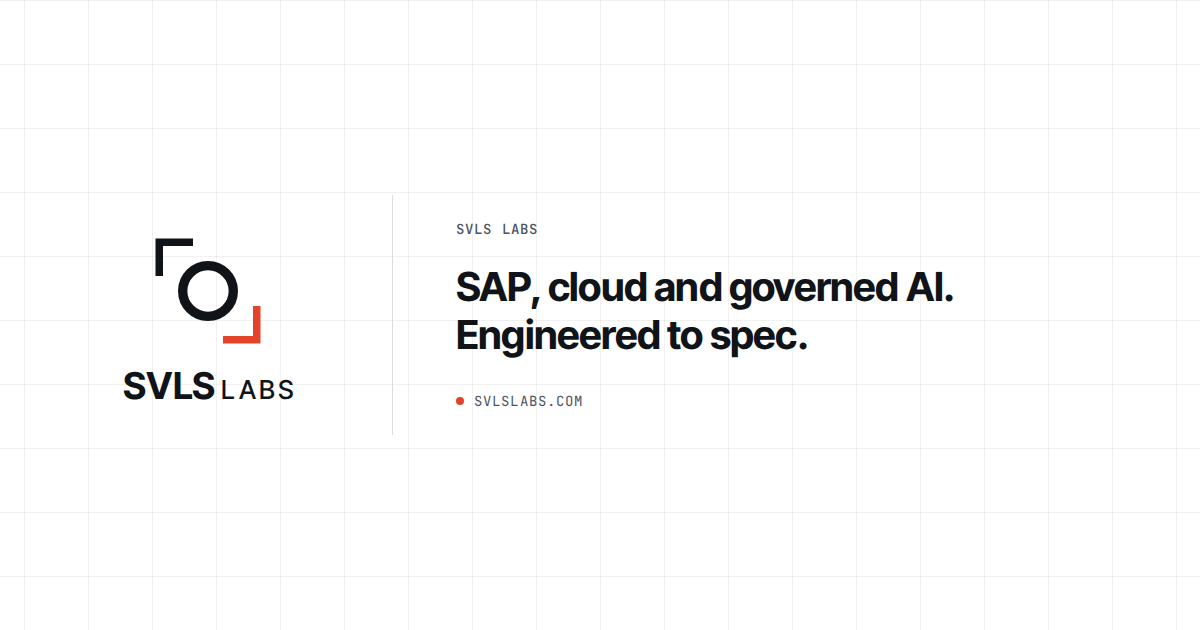
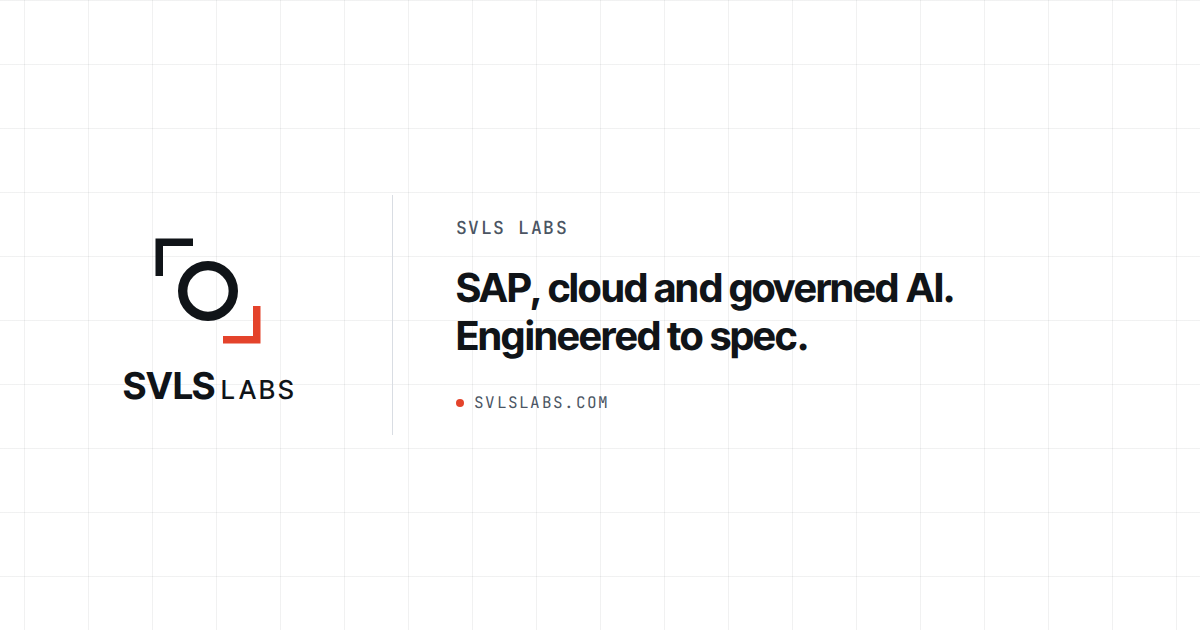
WIP: homepage QA fixes
Claude-Session: https://claude.ai/code/session_014Pe4ntHn1zBoVqzs5CQqrA

diff --git a/website/assets/css/site.css b/website/assets/css/site.css
@@ -192,8 +192,9 @@ p + p { margin-top: 1em; }
 /* Hairline grids: border-top on every cell, border-left on cells after the
    first in a row (desktop only; on phone every cell has only a top rule).
    .hgrid--4: 4 -> 2 -> 1   .hgrid--3: 3 -> 1 (at 900)   .hgrid--2: 2 -> 1 (at 600) */
-.hgrid { display: grid; grid-template-columns: minmax(0, 1fr); }
+.hgrid { display: grid; grid-template-columns: minmax(0, 1fr); list-style: none; margin: 0; padding: 0; }
 .hgrid > * { border-top: 1px solid var(--rule); padding: var(--s-4) 0; min-width: 0; }
+ul[role="list"], ol[role="list"] { list-style: none; margin: 0; padding: 0; }
 .hgrid--tight > * { padding: var(--s-3) 0; }
 @media (min-width: 600px) {
   .hgrid--4, .hgrid--2 { grid-template-columns: repeat(2, minmax(0, 1fr)); }
@@ -274,8 +275,8 @@ p + p { margin-top: 1em; }
 .brand__lockup { height: 28px; width: auto; display: block; }
 .brand__mark { height: 28px; width: auto; display: none; }
 @media (max-width: 399px) {
-  .brand__lockup { display: none; }
-  .brand__mark { display: block; }
+  .site-header .brand__lockup { display: none; }
+  .site-header .brand__mark { display: block; }
 }
 @media (min-width: 900px) { .brand__lockup { height: 32px; } }
 
@@ -312,7 +313,7 @@ p + p { margin-top: 1em; }
 /* Services dropdown: opens instantly (no animation) on hover, focus and click */
 .dropdown {
   position: absolute; top: 100%; left: -16px; z-index: 60;
-  display: none; min-width: 340px;
+  display: none; min-width: 380px;
   list-style: none; margin: 0; padding: var(--s-2) 0;
   background: var(--bg); border: 1px solid var(--rule);
   box-shadow: var(--shadow-2);
@@ -347,7 +348,7 @@ p + p { margin-top: 1em; }
   font: 500 15px/20px var(--font-body); color: var(--text); text-decoration: none;
 }
 .menu-btn svg { width: 16px; height: 16px; display: block; }
-.menu-btn__close { display: none; }
+.menu-btn .menu-btn__close { display: none; }
 .menu-btn.is-open .menu-btn__lines { display: none; }
 .menu-btn.is-open .menu-btn__close { display: block; }
 
@@ -496,15 +497,15 @@ body.sheet-open { overflow: hidden; }
 .hero { padding-block: var(--s-7) var(--s-8); }
 @media (min-width: 600px)  { .hero { padding-block: var(--s-8) var(--s-9); } }
 @media (min-width: 1024px) { .hero { padding-block: var(--s-8) var(--s-10); } }
-.hero__grid { margin-top: var(--s-6); row-gap: var(--s-7); }
+.hero__grid { margin-top: var(--s-6); row-gap: 0; }
 .hero__copy .lead { margin-top: var(--s-5); }
 .hero__copy .btn-row { margin-top: var(--s-6); }
-.hero__diagram { display: flex; flex-direction: column; gap: var(--s-3); }
+.hero__diagram { display: flex; flex-direction: column; gap: var(--s-3); margin-top: var(--s-7); }
 .hero__diagram svg { width: 100%; height: auto; display: block; }
 .hero__diagram figcaption { font: 500 12px/18px var(--font-mono); letter-spacing: 0.06em; text-transform: uppercase; color: var(--text-muted); }
 @media (min-width: 1024px) {
   .hero__grid { align-items: start; }
-  .hero__diagram { padding-top: var(--s-2); }
+  .hero__diagram { margin-top: 0; padding-top: var(--s-2); }
 }
 
 /* Micro-label row: three mono labels separated by hairlines */
@@ -535,13 +536,11 @@ body.sheet-open { overflow: hidden; }
 }
 
 /* Order on phone: copy, micro-labels, proof, diagram. Tablet: copy, diagram, rows. Desktop: two columns + rows. */
-.hero__rows { display: contents; }
 @media (max-width: 599px) {
-  .hero__diagram { order: 3; }
+  .hero__diagram { order: 3; margin-top: var(--s-6); }
   .hero__rows-a { order: 1; }
   .hero__rows-b { order: 2; }
 }
-.hero__rows-a .microlabels { margin-top: 0; }
 
 /* ---------------------------------------------------------------------------
    06  Stat cells (proof strip): 8px L-tick, stat numeral, label, context line
@@ -578,7 +577,7 @@ body.sheet-open { overflow: hidden; }
 /* ---------------------------------------------------------------------------
    08  Method timeline: points on a hairline, 4 -> 2 -> 1
    --------------------------------------------------------------------------- */
-.method { display: grid; grid-template-columns: minmax(0, 1fr); }
+.method { display: grid; grid-template-columns: minmax(0, 1fr); list-style: none; margin: 0; padding: 0; }
 .method__step { position: relative; border-top: 1px solid var(--rule); padding: var(--s-5) 0 var(--s-5); min-width: 0; }
 .method__step::before {
   content: ""; position: absolute; top: -4px; left: 0; width: 8px; height: 8px; border-radius: 50%;
@@ -694,17 +693,17 @@ body.sheet-open { overflow: hidden; }
 .frame__table { width: 100%; border-collapse: collapse; font-size: 13px; line-height: 20px; }
 .frame__table th {
   font: 500 12px/16px var(--font-mono); letter-spacing: 0.06em; text-transform: uppercase; color: var(--text-muted);
-  padding: 10px 12px; white-space: nowrap; border-bottom: 1px solid var(--rule);
+  padding: 10px 8px; white-space: nowrap; border-bottom: 1px solid var(--rule);
 }
-.frame__table td { padding: 10px 12px; border-top: 1px solid var(--rule); vertical-align: top; }
+.frame__table td { padding: 10px 8px; border-top: 1px solid var(--rule); vertical-align: top; }
 .frame__table tbody tr:first-child td { border-top: 0; }
-.frame__table th:first-child, .frame__table td:first-child { padding-left: 16px; }
+.frame__table th:first-child, .frame__table td:first-child { padding-left: 16px; white-space: nowrap; }
 .frame__table th:last-child, .frame__table td:last-child { padding-right: 16px; }
 .frame__table .num { text-align: right; white-space: nowrap; font-variant-numeric: tabular-nums; }
-.frame__table .rule { overflow-wrap: anywhere; }
+.frame__table .rule { overflow-wrap: normal; }
 .frame__table tr.is-expanded td { border-bottom: 0; }
 .frame__reason { display: block; color: var(--text-muted); }
-.frame__detail td { padding: 0 16px 12px; border-top: 0; }
+.frame__table .frame__detail td { padding: 0 16px 12px; border-top: 0; white-space: normal; }
 .frame__panel { border: 1px solid var(--rule); padding: var(--s-3); display: grid; gap: var(--s-4); grid-template-columns: minmax(0, 1fr); }
 @media (min-width: 700px) { .frame__panel { grid-template-columns: repeat(3, minmax(0, 1fr)); } }
 .frame__block-title { font: 500 12px/16px var(--font-mono); letter-spacing: 0.06em; text-transform: uppercase; color: var(--text-muted); margin-bottom: var(--s-2); }
@@ -718,6 +717,7 @@ body.sheet-open { overflow: hidden; }
 /* Phone: the table becomes a vertically stacked list, never an overflow box */
 @media (max-width: 699px) {
   .frame__table thead { position: absolute; width: 1px; height: 1px; overflow: hidden; clip: rect(0 0 0 0); }
+  .frame__table thead tr, .frame__table thead th { display: block; width: 1px; padding: 0; }
   .frame__table, .frame__table tbody, .frame__table tr, .frame__table td { display: block; }
   .frame__table tr { padding: 10px 16px; border-top: 1px solid var(--rule); }
   .frame__table tbody tr:first-child { border-top: 0; }
@@ -740,7 +740,7 @@ body.sheet-open { overflow: hidden; }
 .vl-copy .status { margin-top: var(--s-3); font-size: var(--fs-small); line-height: 1.6; color: var(--text-muted); }
 .vl-copy .btn-row { margin-top: var(--s-6); align-items: center; }
 .vl-grid { margin-top: 0; }
-@media (min-width: 1024px) { .vl-grid { align-items: center; } }
+@media (min-width: 1024px) { .vl-grid { align-items: start; } }
 
 /* ---------------------------------------------------------------------------
    12  FAQ
@@ -807,12 +807,12 @@ textarea.input { min-height: 96px; resize: vertical; }
 
 .cta-band__forms > * { padding-bottom: var(--s-6); }
 .cta-band__forms .form-title { font-size: var(--fs-h3); }
-.cta-band__after { margin-top: var(--s-6); border-top: 1px solid var(--rule); padding-top: var(--s-5); }
+.cta-band__after { margin-top: var(--s-6); }
 .cta-band__after .trust { margin-top: 0; }
 
 .partner-band { border-top: 1px solid var(--rule); border-bottom: 1px solid var(--rule); }
-.partner-band .grid { row-gap: var(--s-5); }
-.partner-band h3 { font-size: var(--fs-h3); max-width: 32ch; margin-top: var(--s-4); }
+.partner-band .grid { row-gap: var(--s-5); margin-top: var(--s-5); }
+.partner-band h3 { font-size: var(--fs-h3); max-width: 32ch; }
 .partner-band__body { font-size: 15px; line-height: 24px; margin-top: var(--s-3); max-width: var(--measure); }
 .partner-band__action { display: flex; flex-direction: column; align-items: flex-start; gap: var(--s-3); }
 @media (min-width: 1024px) {

diff --git a/website/index.html b/website/index.html
@@ -291,22 +291,22 @@
       <ol class="method" role="list">
         <li class="method__step">
           <span class="numeral">01</span>
-          <h4>Specify — two weeks, fixed scope, fixed price.</h4>
+          <h3 class="h4">Specify — two weeks, fixed scope, fixed price.</h3>
           <p>Landscape and architecture review. Domain contracts, interface specs, policy versions, a prototype scope. You leave with an architecture you can act on, whether or not you continue with us.</p>
         </li>
         <li class="method__step">
           <span class="numeral">02</span>
-          <h4>Build.</h4>
+          <h3 class="h4">Build.</h3>
           <p>Clean Core extensions on BTP. CPI flows from a pattern library. AI-assisted generation for repeatable objects, every artefact reviewed by a certified architect before it reaches your landscape.</p>
         </li>
         <li class="method__step">
           <span class="numeral">03</span>
-          <h4>Verify.</h4>
+          <h3 class="h4">Verify.</h3>
           <p>Automated read-back against SAP after every run. Reconciliation to SAP totals. An evidence pack your auditors and InfoSec can read.</p>
         </li>
         <li class="method__step">
           <span class="numeral">04</span>
-          <h4>Ship and run.</h4>
+          <h3 class="h4">Ship and run.</h3>
           <p>Cutover, hypercare, runbooks, handover to your team, with a named engagement lead (a role on the team, not a rotating bench) who stays through run. We do not hand you a deck and leave. We stay until it runs.</p>
         </li>
       </ol>
@@ -409,7 +409,7 @@
                 <tr role="row">
                   <td role="cell" data-label="Case">VL-0228</td>
                   <td role="cell" data-label="Severity"><span class="pill pill--high">HIGH</span></td>
-                  <td role="cell" data-label="Rule" class="rule">excessive_discount</td>
+                  <td role="cell" data-label="Rule" class="rule">excessive_<wbr>discount</td>
                   <td role="cell" data-label="Leakage" class="num">7,930.00</td>
                   <td role="cell" data-label="Coverage" class="num">0.88</td>
                   <td role="cell" data-label="Status">Open</td>
@@ -417,7 +417,7 @@
                 <tr role="row">
                   <td role="cell" data-label="Case">VL-0225</td>
                   <td role="cell" data-label="Severity"><span class="pill pill--medium">MEDIUM</span></td>
-                  <td role="cell" data-label="Rule" class="rule">cost_above_priced_cost</td>
+                  <td role="cell" data-label="Rule" class="rule">cost_above_<wbr>priced_cost</td>
                   <td role="cell" data-label="Leakage" class="num">2,114.55</td>
                   <td role="cell" data-label="Coverage" class="num">0.91</td>
                   <td role="cell" data-label="Status"><span class="status-ok">Reviewed<svg viewBox="0 0 16 16" aria-hidden="true" focusable="false"><path d="M2.5 8.5l3.5 3.5 7.5-7.5" fill="none" stroke="currentColor" stroke-width="2"/></svg><span class="visually-hidden">(checked)</span></span></td>
@@ -425,7 +425,7 @@
                 <tr role="row">
                   <td role="cell" data-label="Case">VL-0219</td>
                   <td role="cell" data-label="Severity"><span class="pill pill--medium">MEDIUM</span></td>
-                  <td role="cell" data-label="Rule" class="rule">excessive_discount</td>
+                  <td role="cell" data-label="Rule" class="rule">excessive_<wbr>discount</td>
                   <td role="cell" data-label="Leakage" class="num">1,480.00</td>
                   <td role="cell" data-label="Coverage" class="num">0.97</td>
                   <td role="cell" data-label="Status">Dismissed <span class="frame__reason">· reason: approved promotion</span></td>
@@ -597,9 +597,9 @@
   <!-- 09 For SAP partners -->
   <section class="section section--slim band-surface partner-band" id="partners" aria-labelledby="partners-title">
     <div class="container">
+      <div class="section-mark"><span class="numeral">09</span><p class="eyebrow">For SAP partners</p></div>
       <div class="grid">
         <div class="col-8">
-          <div class="section-mark"><span class="numeral">09</span><p class="eyebrow">For SAP partners</p></div>
           <h3 id="partners-title">Integration Suite, BTP and agentic-AI capacity for partner programmes. White-label or co-delivered.</h3>
           <p class="partner-band__body">Our architects plug into your RISE and S/4HANA programmes with CPI squads, Clean Core extension builds and governed-agent pilots, under your brand or beside your team.</p>
         </div>

diff --git a/website/_tools/make-og.js b/website/_tools/make-og.js
@@ -53,9 +53,9 @@ const html = `<!doctype html><html><head><meta charset="utf-8">
   .lockup{position:absolute;left:88px;top:195px;width:240px;height:240px}
   .rule{position:absolute;left:392px;top:195px;width:1px;height:240px;background:${C.rule}}
   .copy{position:absolute;left:456px;top:0;width:656px;height:630px;display:flex;flex-direction:column;justify-content:center}
-  .eyebrow{font:500 14px/20px 'JetBrains Mono',Menlo,Consolas,monospace;letter-spacing:.08em;text-transform:uppercase;color:${C.muted};margin-bottom:24px}
+  .eyebrow{font:500 18px/24px 'JetBrains Mono',Menlo,Consolas,monospace;letter-spacing:.08em;text-transform:uppercase;color:${C.muted};margin-bottom:24px}
   h1{margin:0;font:700 ${size}px/1.2 'Inter Tight',Inter,'Helvetica Neue',Helvetica,Arial,sans-serif;letter-spacing:-0.02em;text-wrap:balance}
-  .site{font:400 14px/20px 'JetBrains Mono',Menlo,Consolas,monospace;letter-spacing:.08em;text-transform:uppercase;color:${C.muted};margin-top:32px}
+  .site{font:400 16px/22px 'JetBrains Mono',Menlo,Consolas,monospace;letter-spacing:.08em;text-transform:uppercase;color:${C.muted};margin-top:32px}
   .site i{display:inline-block;width:8px;height:8px;border-radius:50%;background:${C.accent};margin-right:10px;vertical-align:1px}
 </style></head><body><div class="og">
 <svg class="lockup" viewBox="0 0 320 320" aria-hidden="true">

diff --git a/website/assets/js/site.js b/website/assets/js/site.js
@@ -177,6 +177,8 @@
       if (label) label.textContent = 'Close';
       doc.body.classList.add('sheet-open');
       if (!keyBound) { doc.addEventListener('keydown', onKey); keyBound = true; }
+      var first = focusables()[0];
+      if (first) first.focus();
     }
     function close() {
       sheet.classList.remove('is-open');
